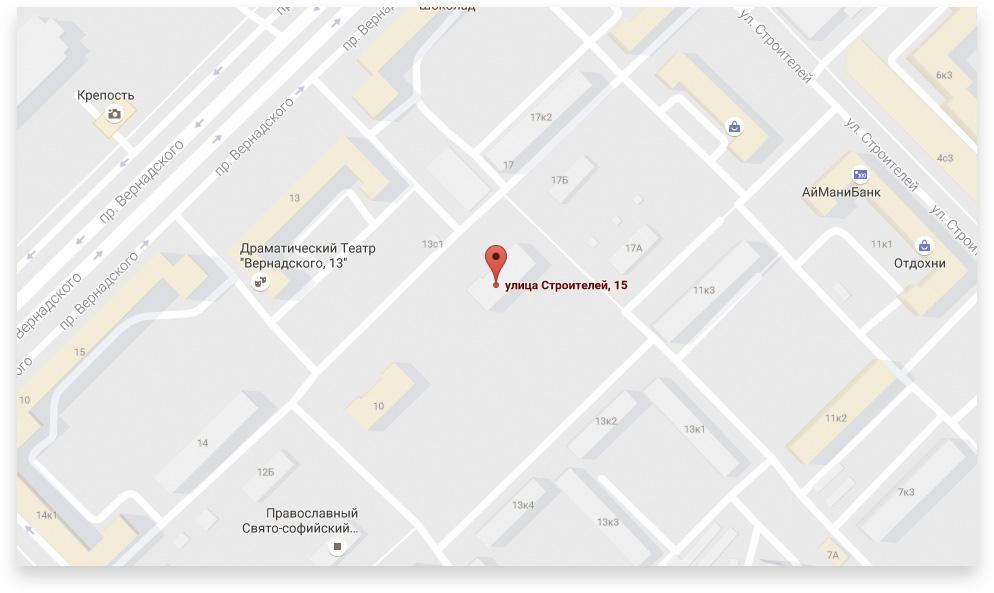
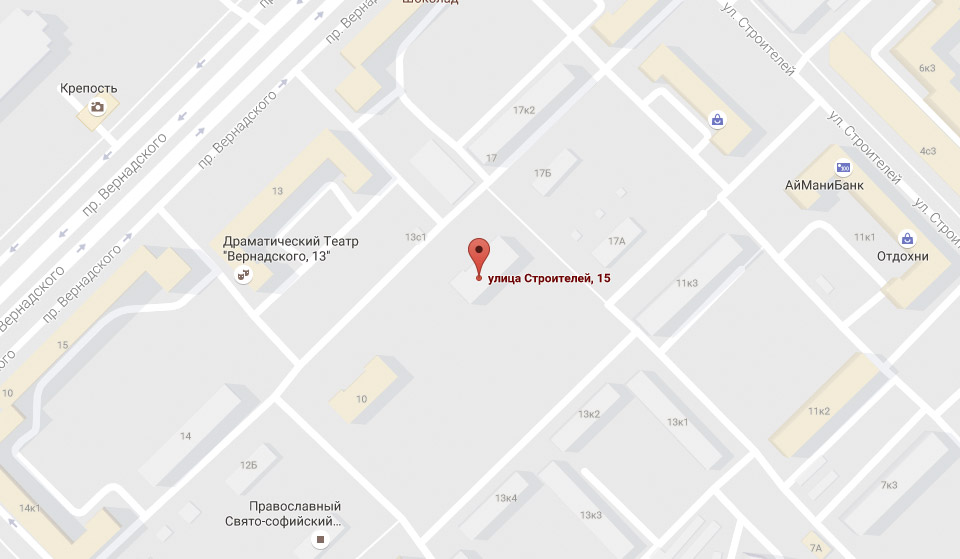
поправил карту

diff --git a/css/style.css b/css/style.css
@@ -1194,7 +1194,8 @@ color:inherit;
   display: none;
   width: 994px;
   height: 593px;
-  background: url("./../img/map-big.jpg") no-repeat center;
+  background: url("./../img/map-big.jpg") no-repeat;
+  background-size: cover;
   -webkit-box-shadow: 0 10px 20px rgba(70, 70, 70, 0.5);
           box-shadow: 0 10px 20px rgba(70, 70, 70, 0.5);
   z-index: 150;
